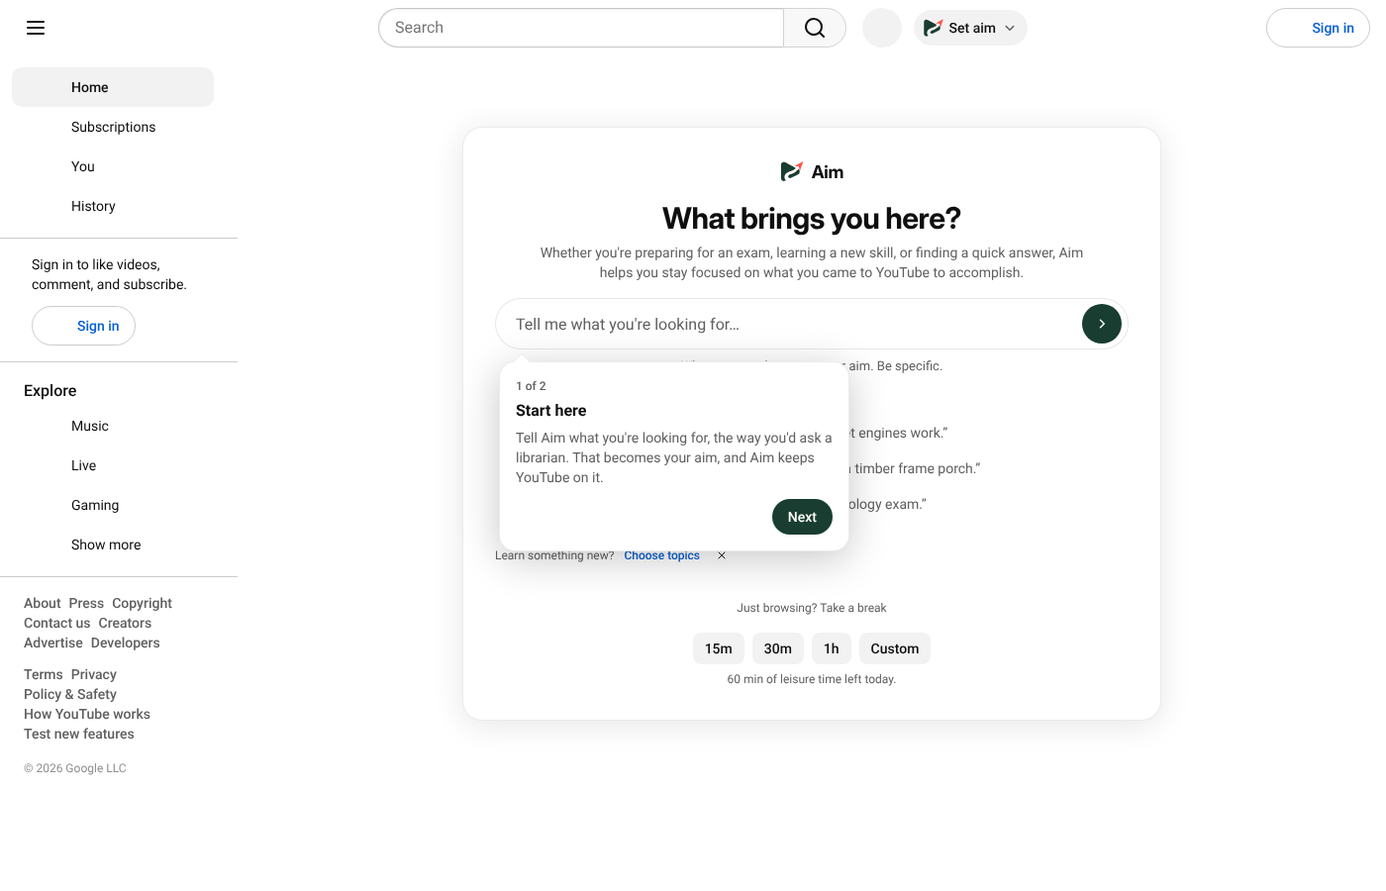
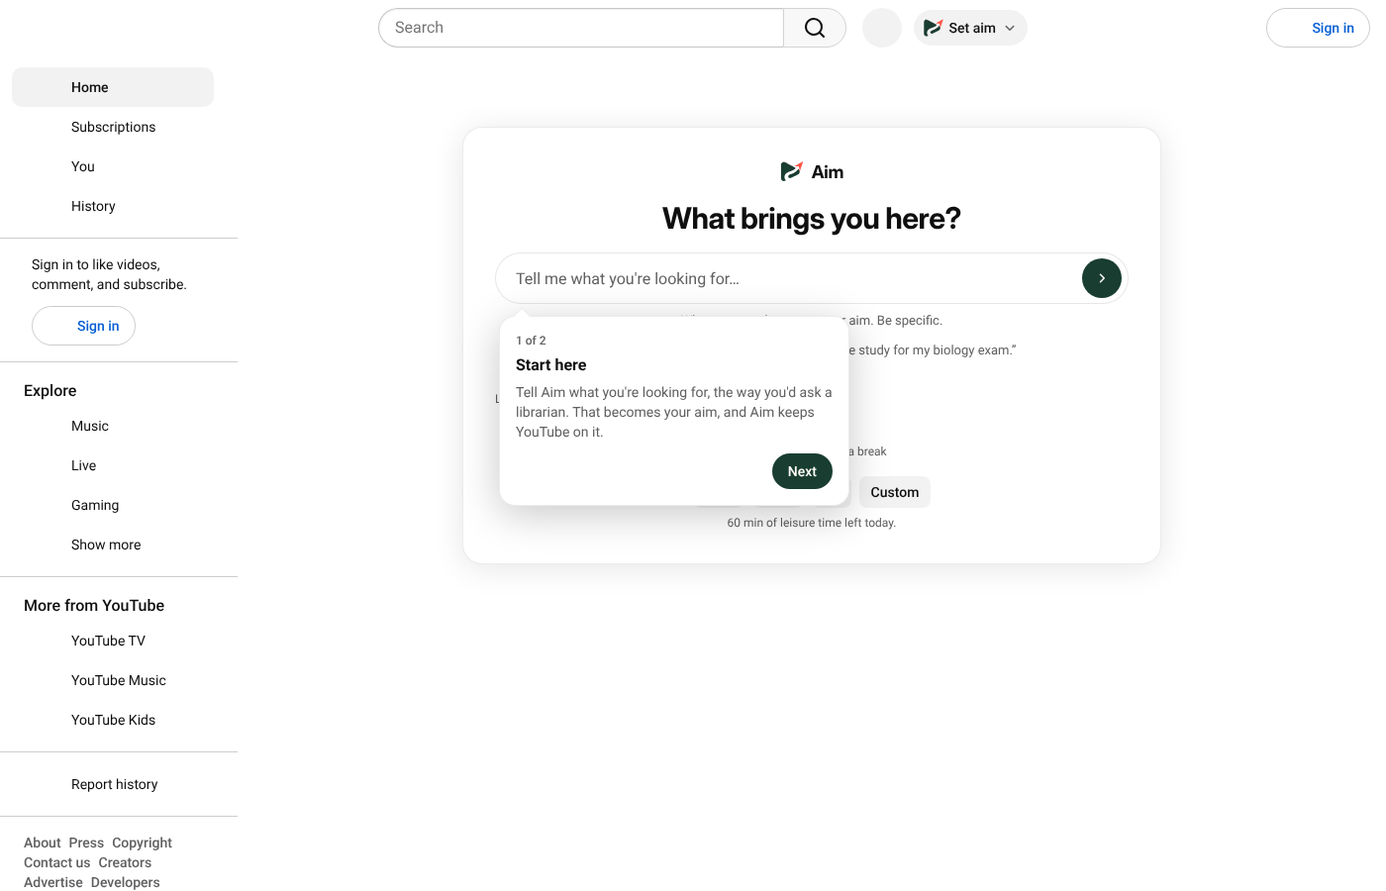
Polish: the end card sits inside the homepage card, a shorter homepage, one place for the design (0.49.1)
Claude-Session: https://claude.ai/code/session_01SjDZZ75Dr81gmM2iqGfBXN

diff --git a/tests/browser.test.js b/tests/browser.test.js
@@ -264,7 +264,8 @@ const RESULTS = page(`<ytd-search><div><ytd-section-list-renderer>
     !document.documentElement.classList.contains("wp-boot") && document.documentElement.classList.contains("wp-home")));
   step("homepage card offers a search, examples and a break", (await text("#wp-home")).includes("What brings you here?") &&
     (await p.getAttribute("#wp-home .wp-home-input", "placeholder")) === "Tell me what you're looking for…" && !card0.includes("Search YouTube") &&
-    ["jet engines", "timber frame porch", "15m", "Custom"].every(t => card0.includes(t)), card0.slice(0, 160));
+    ["jet engines", "biology exam", "15m", "Custom"].every(t => card0.includes(t)), card0.slice(0, 160));
+  if (process.env.SHOTS) await p.screenshot({ path: `${process.env.SHOTS}/home-first.png` });
   step("tapping an example fills the search box", await (async () => {
     await p.click('#wp-home .wp-home-example:has-text("biology exam")');
     return (await p.inputValue("#wp-home .wp-home-input")) === "Help me study for my biology exam.";
@@ -386,15 +387,20 @@ const RESULTS = page(`<ytd-search><div><ytd-section-list-renderer>
   await p.click("#wp-chip .wp-pill");
   await p.click('.wp-dropdown button:has-text("Done with this aim")');
   await p.waitForURL("https://www.youtube.com/", { timeout: 5000 });
-  await p.waitForSelector(".wp-notice .wp-end-rate", { timeout: 5000 });
-  const endText = await text(".wp-notice");
-  step("Done is one tap; a light card follows: time, found it?, and a way back in", !(await p.$(".wp-done-dialog")) &&
+  await p.waitForSelector("#wp-home .wp-home-end .wp-end-rate", { timeout: 5000 });
+  const endText = await text(".wp-home-end");
+  step("Done is one tap; a light card follows at the top of the homepage card: time, found it?, and a way back in", !(await p.$(".wp-done-dialog")) &&
     ["min on Learn how sourdough", "Found what you needed?", "Yes", "Partly", "Not done? Pick it back up"].every(t => endText.includes(t)), endText.slice(0, 160));
   if (process.env.SHOTS) { await p.waitForTimeout(600); await p.screenshot({ path: `${process.env.SHOTS}/after-done.png` }); }
-  await p.click('.wp-notice .wp-end-rate button:text-is("Yes")');
+  step("the card sits inside the homepage card, above the question, covering nothing", await p.evaluate(() => {
+    const end = document.querySelector(".wp-home-end").getBoundingClientRect(), h = document.querySelector(".wp-home-title").getBoundingClientRect();
+    return end.bottom <= h.top && !document.querySelector(".wp-notice");
+  }));
+  await p.click('.wp-home-end .wp-end-rate button:text-is("Yes")');
   await p.waitForTimeout(400);
-  step("answering is quiet: the card says thanks in place", (await text(".wp-notice")).includes("Nice work"));
-  await p.click('.wp-notice [aria-label="Dismiss"]');
+  step("answering is quiet: the card says thanks in place", (await text(".wp-home-end")).includes("Nice work"));
+  await p.click('.wp-home-end [aria-label="Dismiss"]');
+  step("dismissing it leaves the homepage card as usual", !(await p.$(".wp-home-end")) && !!(await p.$("#wp-home .wp-home-title")));
   await p.click("#wp-chip .wp-pill");
   await p.click('.wp-dropdown button:has-text("Set aim")');
   await p.waitForSelector(".wp-dialog .wp-recent", { timeout: 3000 });
@@ -552,7 +558,7 @@ const RESULTS = page(`<ytd-search><div><ytd-section-list-renderer>
   step("home: an aim with no videos yet keeps the text-only card; a recent aim shows its last video small",
     !(await p.$(".wp-home-current .wp-home-video")) && !!(await p.$(".wp-home-row .wp-home-row-thumb .wp-thumb-xs")) &&
     (await p.$eval(".wp-home-row .wp-thumb-xs", n => n.style.backgroundImage)).includes("i.ytimg.com/vi/bio1/"));
-  step("home: no example chips once there's something to pick up", !home.includes("Try asking") && home.includes("View all aims") && !/\bnull\b/.test(home));
+  step("home: no example chips once there's something to pick up", !(await p.$(".wp-home-examples")) && home.includes("View all aims") && !/\bnull\b/.test(home));
   await p.click(".wp-home-row button:text-is('Resume')");
   await p.waitForURL(/watch\?v=bio1/);
   step("Resume returns to the last video at the moment you left it", p.url().includes("watch?v=bio1&t=300s"), p.url());
@@ -857,13 +863,17 @@ const RESULTS = page(`<ytd-search><div><ytd-section-list-renderer>
   await opt.selectOption("#graceMin", "5");
   await opt.selectOption("#totalMin", "240");
   await opt.selectOption("#avoid select", "warn");
-  await opt.uncheck("#hideShorts");
-  await opt.check("#homeCard");
   await opt.waitForTimeout(600);
   st = await store();
   step("settings save through the background", st.settings.leisureMin === 90 && st.settings.graceMin === 5 && st.settings.totalMin === 240 &&
-    st.settings.homeCard === true && st.settings.hideShorts === false && st.avoid["/@hideme"].action === "warn", JSON.stringify(st.settings));
-  await p.waitForTimeout(300);
+    st.avoid["/@hideme"].action === "warn", JSON.stringify(st.settings));
+  const sum = (await opt.textContent("#designSummary")).replace(/\s+/g, " ");
+  step("settings show the design in words, each part linking to its stage, with no duplicate switches",
+    ["Home", "Shorts", "Watching", "Change"].every(t => sum.includes(t)) && (await opt.$$("#designSummary a[href^='design.html#']")).length === 3 &&
+    !(await opt.$("#hideShorts, #homeCard, #strict, #learnShorts")), sum.slice(0, 160));
+  if (process.env.SHOTS) await opt.screenshot({ path: `${process.env.SHOTS}/settings.png`, fullPage: true });
+  await sw.evaluate(() => serial(() => setSetting("hideShorts", false)));
+  await p.waitForTimeout(500);
   step("turning a distraction switch off applies to open tabs", !(await p.evaluate(() => document.documentElement.classList.contains("wp-hide-shorts"))));
 
   // Extension reload: the orphaned tab must go quiet instead of throwing.

diff --git a/options.html b/options.html
@@ -23,18 +23,14 @@
   <p class="lede">Set an aim. Stay on it. Take a break when you want one. <a href="#" id="welcomeTour">Show the welcome tour again</a></p>
 
   <section class="card" id="designCard">
-    <div class="setting" style="padding:0">
-      <div class="what"><b>Design your YouTube</b><span>Your homepage, Shorts, and what steps aside while you watch, with a live preview. Time limits are below.</span></div>
-      <a class="btn" href="design.html" id="openDesign">Design</a>
+    <div class="setting" style="padding:0 0 8px">
+      <div class="what"><b>Your YouTube</b><span>What greets you, what happens to Shorts, and what steps aside while you watch. Change any part with a live preview.</span></div>
+      <a class="btn tonal" href="design.html" id="openDesign">Design</a>
     </div>
-    <div class="row small" style="margin-top:8px">Jump to: <a href="design.html#home">Home</a> · <a href="design.html#shorts">Shorts</a> · <a href="design.html#watching">Watching</a></div>
+    <div id="designSummary"></div>
   </section>
 
   <section class="card">
-    <div class="setting">
-      <div class="what"><b>Replace the homepage feed</b><span>Show "What brings you here?" instead. The feed comes back during breaks.</span></div>
-      <label class="switch"><input type="checkbox" id="homeCard" aria-label="Replace the homepage feed"><i></i></label>
-    </div>
     <div class="setting">
       <div class="what"><b>Daily leisure time</b><span id="leisureNote">Breaks share this allowance. When it's used up, breaks are done for the day.</span></div>
       <select id="leisureMin" aria-label="Daily leisure time">
@@ -46,13 +42,8 @@
   </section>
 
   <section class="card" id="learn">
-    <h2>Learn something</h2>
-    <p class="muted">Pick topics you'd like to learn about. When you're not working on an aim, YouTube's home page shows six new videos from channels that teach them well, plus channels you marked Prefer. No feed and no autoplay; picking one starts an aim. The channels are hand-picked by Aim; take out any you don't want.</p>
-    <div class="seg" id="learnTopics" role="group" aria-label="Topics"></div>
-    <div class="setting">
-      <div class="what"><b>Shorts from your topics</b><span>Instead of hiding Shorts completely, show a few from these channels (and channels you prefer) as a Quick review of things you've already learned. Shorts from anywhere else stay hidden, including the ones YouTube swipes to next.</span></div>
-      <label class="switch"><input type="checkbox" id="learnShorts" aria-label="Shorts from your topics"><i></i></label>
-    </div>
+    <h2>Learn something channels</h2>
+    <p class="muted" id="learnNote"></p>
     <div id="learnChannels"></div>
   </section>
 
@@ -92,30 +83,6 @@
       <div class="setting"><div class="what"><span id="today"></span></div></div>
     </section>
 
-    <section class="sub">
-      <h2>Distractions</h2>
-      <p class="note">Hidden whenever you're not on a break. A break shows YouTube as usual.</p>
-      <div class="setting">
-        <div class="what"><b>Hide Shorts</b><span>Shelves, results and the Shorts link. Opening a Short while you have an aim asks first.</span></div>
-        <label class="switch"><input type="checkbox" id="hideShorts" aria-label="Hide Shorts"><i></i></label>
-      </div>
-      <div class="setting">
-        <div class="what"><b>Hide recommendations</b><span>The sidebar next to a video and the suggestions at its end.</span></div>
-        <label class="switch"><input type="checkbox" id="hideRecs" aria-label="Hide recommendations"><i></i></label>
-      </div>
-      <div class="setting">
-        <div class="what"><b>Hide subscriptions and trending feeds</b><span>Replaced by a short note, like the homepage.</span></div>
-        <label class="switch"><input type="checkbox" id="hideFeeds" aria-label="Hide feeds"><i></i></label>
-      </div>
-      <div class="setting">
-        <div class="what"><b>Turn autoplay off</b><span>Aim switches YouTube's autoplay off, and back on during breaks if it was on.</span></div>
-        <label class="switch"><input type="checkbox" id="noAutoplay" aria-label="Turn autoplay off"><i></i></label>
-      </div>
-      <div class="setting">
-        <div class="what"><b>Strict mode</b><span>Before you add time, watch a channel you asked to be warned about, or call an unrelated search part of your aim, Aim asks why. Your reasons stay in this browser; read them in the popup.</span></div>
-        <label class="switch"><input type="checkbox" id="strict" aria-label="Strict mode"><i></i></label>
-      </div>
-    </section>
 
     <section class="sub">
       <h2>Aim Homeschool preview</h2>

diff --git a/options.js b/options.js
@@ -20,18 +20,33 @@ async function setSetting(key, value) {
   render();
 }
 
-const TOGGLES = ["hideShorts", "hideRecs", "hideFeeds", "noAutoplay"];
+// The design, in words, one line per stage, each with a link straight to that stage. The switches
+// themselves live in Design your YouTube only, so there's one place to change them.
+function designSummary(S) {
+  const topics = (S.learnTopics || []).length;
+  const home = S.homeCard === false ? "YouTube's own feed"
+    : S.learnRow !== false && topics ? `A clean page, plus new videos from ${topics} topic${topics > 1 ? "s" : ""}` : "A clean page with your aim";
+  const shorts = S.hideShorts === false ? "Shown" : S.learnShorts ? "Only from selected channels" : "Hidden";
+  const watching = [S.hideRecs !== false ? "recommendations hidden" : "recommendations shown",
+    S.noAutoplay !== false ? "autoplay off" : "autoplay on", S.hideFeeds !== false ? "feeds hidden" : "feeds shown",
+    S.strict ? "strict" : "asks once"].join(" · ");
+  $("designSummary").replaceChildren(...[["Home", home, "home"], ["Shorts", shorts, "shorts"], ["Watching", watching[0].toUpperCase() + watching.slice(1), "watching"]].map(([label, value, stage]) => {
+    const row = document.createElement("div"), what = document.createElement("div"), b = document.createElement("b"), v = document.createElement("span"), a = document.createElement("a");
+    row.className = "setting"; what.className = "what";
+    b.textContent = label; v.textContent = value; what.append(b, v);
+    a.href = `design.html#${stage}`; a.textContent = "Change"; a.className = "small";
+    row.append(what, a);
+    return row;
+  }));
+}
 
 async function render() {
   const st = await send({ type: "state" });
   if (!st) return;
   const S = st.settings, t = st.today || { purpose: 0, leisure: 0, other: 0 };
-  $("homeCard").checked = S.homeCard;
+  designSummary(S);
   $("homeschoolPreview").checked = !!st.homeschool;
   $("homeschoolResetRow").hidden = !st.homeschool;
-  for (const k of TOGGLES) $(k).checked = S[k] !== false;
-  $("strict").checked = S.strict === true;
-  $("learnShorts").checked = S.learnShorts === true;
   renderLearn(S);
   for (const k of ["leisureMin", "graceMin", "totalMin", "purposeLimitMin"]) {
     const sel = $(k);
@@ -69,7 +84,6 @@ async function render() {
   }
 }
 
-$("homeCard").onchange = () => setSetting("homeCard", $("homeCard").checked);
 $("openChannels").onclick = () => chrome.tabs.create({ url: chrome.runtime.getURL("channels.html") });
 $("homeschoolPreview").onchange = async () => {
   const r = await send({ type: "homeschool-preview", on: $("homeschoolPreview").checked });
@@ -80,19 +94,14 @@ $("homeschoolReset").onclick = async () => {
   const r = await send({ type: "homeschool-preview", on: true });
   toast(r?.result === "applied" ? "Sample plan reset." : "Couldn't reset it.");
 };
-for (const k of TOGGLES) $(k).onchange = () => setSetting(k, $(k).checked);
-$("strict").onchange = () => setSetting("strict", $("strict").checked);
-$("learnShorts").onchange = () => setSetting("learnShorts", $("learnShorts").checked);
-// "Learn something": topics as toggles; under each chosen topic, its channels, which you can take out.
+// "Learn something": under each topic you chose (in Design your YouTube → Home), its channels,
+// which you can take out.
 function renderLearn(S) {
   const on = new Set(S.learnTopics || []), off = new Set(S.learnOff || []);
   const save = (key, value) => setSetting(key, value);
-  $("learnTopics").replaceChildren(...LEARN_TOPICS.map(t => {
-    const b = document.createElement("button");
-    b.type = "button"; b.textContent = t.name; b.setAttribute("aria-pressed", String(on.has(t.id)));
-    b.onclick = () => save("learnTopics", on.has(t.id) ? [...on].filter(x => x !== t.id) : [...on, t.id]);
-    return b;
-  }));
+  const pick = document.createElement("a");
+  pick.href = "design.html#home"; pick.textContent = on.size ? "Change your topics" : "Choose topics";
+  $("learnNote").replaceChildren(on.size ? "The channels behind your topics. Take out any you'd rather not see. " : "Pick topics, and Aim's homepage shows new videos from channels that teach them well. ", pick);
   const box = $("learnChannels");
   box.replaceChildren();
   for (const t of LEARN_TOPICS.filter(t => on.has(t.id))) {

diff --git a/content/session.js b/content/session.js
@@ -296,16 +296,23 @@ async function showReflection() {
   };
   rated.append(el("span", { class: "wp-muted" }, "Found what you needed?"),
     ...[["yes", "Yes"], ["partly", "Partly"], ["no", "No"]].map(([v, label]) => el("button", { class: "wp-link", onclick: rate(v) }, label)));
-  showNotice([
+  const close = () => { homeEnd?.remove(); homeEnd = null; closeNotice(); };
+  const parts = [
     el("span", { class: "wp-notice-icon wp-accent" }, icon("check")),
     el("div", { class: "wp-notice-text" },
-      el("div", { class: "wp-strong" }, `${mins} min on ${s.text}`),
-      el("div", { class: "wp-muted" }, s.videos?.length ? `${s.videos.length} video${s.videos.length > 1 ? "s" : ""} · Done` : "Done"),
+      el("div", { class: "wp-strong" }, `Done · ${mins} min on ${s.text}`),
+      s.videos?.length ? el("div", { class: "wp-muted" }, `${s.videos.length} video${s.videos.length > 1 ? "s" : ""}`) : null,
       rated,
       // With Pathways on, a learning aim asks once whether you'd like more of it.
       status.pathways && learning ? interestChips({ topic: s.study?.title || s.text, source: "target" }) : null),
     el("div", { class: "wp-notice-actions wp-col" },
-      plus ? el("button", { class: "wp-btn wp-btn-tonal", onclick: () => { closeNotice(); send({ type: "open-teachback", topic: s.text }); } }, "Test my understanding") : null,
-      el("button", { class: "wp-btn wp-btn-text", onclick: () => { closeNotice(); resumeTarget(s.id); } }, "Not done? Pick it back up"))
-  ]);
+      plus ? el("button", { class: "wp-btn wp-btn-tonal", onclick: () => { close(); send({ type: "open-teachback", topic: s.text }); } }, "Test my understanding") : null,
+      el("button", { class: "wp-link", onclick: () => { close(); resumeTarget(s.id); } }, "Not done? Pick it back up"))];
+  // On Aim's homepage it sits at the top of the card, so it never covers anything; elsewhere it's a notice.
+  if (location.pathname !== "/" || !settings.homeCard || brk || planOn()) return showNotice(parts);
+  homeEnd = el("div", { class: "wp-home-end", role: "status" }, ...parts,
+    el("button", { class: "wp-icon-btn", "aria-label": "Dismiss", onclick: close }, svgIcon("close")));
+  const card = $("#wp-home");
+  if (card) delete card.dataset.key;
+  renderHome();
 }

diff --git a/content/home.js b/content/home.js
@@ -2,7 +2,10 @@
 
 // ---------------- homepage: "What brings you here?" ----------------
 // Example requests on the card, said the way you'd ask a librarian: one tap fills the box.
-const EXAMPLES = ["I want to understand how jet engines work.", "Find a good tutorial for building a timber frame porch.", "Help me study for my biology exam."];
+const EXAMPLES = ["How do jet engines work?", "Help me study for my biology exam."];
+
+// The card after Done, shown inside the homepage card (so it never covers it) until dismissed.
+let homeEnd = null;
 
 function removeHome() {
   early.showFeed();
@@ -75,15 +78,15 @@ async function renderHome() {
 
   card.append(...[
     brandLine(),
+    homeEnd,
     el("h1", { class: "wp-home-title" }, "What brings you here?"),
-    p ? null : el("div", { class: "wp-muted wp-home-lede" }, `Whether you're preparing for an exam, learning a new skill, or finding a quick answer, ${BRAND} helps you stay focused on what you came to YouTube to accomplish.`),
     el("div", { class: "wp-home-search" }, input, findBtn),
     hint,
     themeOfferBlock(),
     // Examples help a first visit; once there's something to pick up, they'd only add clutter.
-    !p && !others.length && !(settings.learnTopics || []).length ? el("div", { class: "wp-label" }, "Try asking") : null,
-    !p && !others.length && !(settings.learnTopics || []).length ? el("div", { class: "wp-home-examples" }, ...EXAMPLES.map(t =>
-      el("button", { class: "wp-home-example", onclick: () => { input.value = t; input.focus(); } }, `“${t}”`))) : null,
+    !p && !others.length && !(settings.learnTopics || []).length ? el("div", { class: "wp-home-examples" },
+      el("span", { class: "wp-muted" }, "Try"), ...EXAMPLES.map(t =>
+        el("button", { class: "wp-home-example", onclick: () => { input.value = t; input.focus(); } }, `“${t}”`))) : null,
     resumeBlock,
     savedBlock(),
     learnBlock(),

diff --git a/content/content.css b/content/content.css
@@ -303,9 +303,9 @@ html.wp-boot ytd-browse[page-subtype="home"] ytd-feed-filter-chip-bar-renderer {
 .wp .wp-home-go, .wp-home-search:focus-within .wp-home-go { background: var(--wp-primary); color: var(--wp-on-primary); }
 .wp .wp-home-go:hover { background: var(--wp-primary-hover); }
 .wp-home-go:disabled { opacity: .6; cursor: progress; }
-.wp-home-examples { display: flex; flex-direction: column; align-items: center; gap: 4px; margin-top: -8px; }
-.wp .wp-home-example { border: 0; background: none; color: var(--wp-muted); font: 400 14px/20px "Roboto", Arial, sans-serif;
-  padding: 6px 12px; border-radius: 16px; }
+.wp-home-examples { display: flex; flex-wrap: wrap; justify-content: center; align-items: center; gap: 2px 4px; margin-top: -8px; font-size: 13px; }
+.wp .wp-home-example { border: 0; background: none; color: var(--wp-muted); font: 400 13px/18px "Roboto", Arial, sans-serif;
+  padding: 4px 8px; border-radius: 14px; }
 .wp .wp-home-example:hover { background: var(--wp-tonal); color: var(--wp-text); }
 .wp-home-hint { margin: -8px 0 0 16px; font-size: 13px; }
 .wp-home-lede { margin: -8px 0 0; font-size: 14px; line-height: 20px; max-width: 560px; }
@@ -725,3 +725,8 @@ html[dark] .wp-coach { background: var(--wp-menu); }
 .wp-more[open] > summary { margin-bottom: 10px; }
 .wp-more > :not(summary) + :not(summary) { margin-top: 10px; }
 .wp-end-rate { display: flex; align-items: center; gap: 10px; flex-wrap: wrap; margin-top: 4px; }
+
+/* The card after Done, at the top of the homepage card. */
+.wp-home-end { display: flex; align-items: flex-start; gap: 12px; padding: 12px 14px; border-radius: 12px; background: var(--wp-tonal); text-align: left; }
+.wp-home-end .wp-notice-text { flex: 1; }
+.wp-home-end .wp-notice-actions.wp-col { align-items: flex-end; }

diff --git a/content/learn.js b/content/learn.js
@@ -159,14 +159,14 @@ function learnBlock() {
     // One quiet line, not a block: the offer is there for whoever wants it.
     return el("div", { class: "wp-learn wp-learn-invite" },
       el("span", { class: "wp-muted" }, "Learn something new?"),
-      el("button", { class: "wp-link", onclick: () => send({ type: "open-options", section: "learn" }) }, "Choose topics"),
+      el("button", { class: "wp-link", onclick: () => send({ type: "open-design", stage: "home" }) }, "Choose topics"),
       el("button", { class: "wp-icon-btn wp-learn-invite-x", "aria-label": "No thanks", title: "No thanks",
         onclick: e => { send({ type: "onboarding", tip: "learn" }); e.currentTarget.closest(".wp-learn").remove(); } }, svgIcon("close")));
   }
   const box = el("div", { class: "wp-learn" },
     el("div", { class: "wp-row-between" },
       el("div", { class: "wp-label" }, "Learn something"),
-      el("button", { class: "wp-link wp-learn-edit", onclick: () => send({ type: "open-options", section: "learn" }) }, "Your topics")),
+      el("button", { class: "wp-link wp-learn-edit", onclick: () => send({ type: "open-design", stage: "home" }) }, "Your topics")),
     el("div", { class: "wp-muted wp-learn-loading" }, "Finding new videos from your topics…"));
   loadLearn().then(({ videos, shorts }) => {
     if (!box.isConnected) return;

diff --git a/TESTING.md b/TESTING.md
@@ -116,7 +116,7 @@ From a cloud session, the environment must allow `*.youtube.com`, `*.ytimg.com`,
 ### 8. Done with this aim
 
 - [ ] Menu → **Done with this aim** (or the results bar, homepage, time-up card or popup) ends it in one tap and lands on the homepage.
-- [ ] A light card follows: "N min on …", the videos, a quiet **Found what you needed? Yes · Partly · No** (answering says thanks in place), **Test my understanding** (Plus, learning aims) and **Not done? Pick it back up**.
+- [ ] A light card follows at the top of the homepage card (a notice elsewhere, so it never covers anything): "Done · N min on …", the videos, a quiet **Found what you needed? Yes · Partly · No** (answering says thanks in place), **Test my understanding** (Plus, learning aims) and **Not done? Pick it back up**.
 - [ ] Homepage with no aims: "What brings you here?", one rounded field ("Tell me what you're looking for…") with a small arrow inside, three example requests, and no big Search YouTube button. Enter and the arrow both work.
 - [ ] Popup with an aim: Resume (red), Take a Break, Done, then small Change my aim · Set aside · All aims links. It shows "N min so far" (time left only with a limit). **Resume** on a YouTube tab goes to the last video at the moment you left; on another site it opens a new tab instead. "Your activity" is folded.
 - [ ] Results after a plain search, signed in: the librarian is folded behind the speech-bubble icon; clicking it opens the ask box. After a request it opens by itself.
@@ -297,7 +297,7 @@ From a cloud session, the environment must allow `*.youtube.com`, `*.ytimg.com`,
 - [ ] **Study sessions** and **Completed** filter the list; **Print or save as PDF** prints just the record (no buttons).
 
 ### 30. Learn something (0.42)
-- [ ] With no topics chosen and no aim, YouTube's home page has one quiet line, **Learn something new? Choose topics** (Settings → Learn something); its × hides it for good.
+- [ ] With no topics chosen and no aim, YouTube's home page has one quiet line, **Learn something new? Choose topics** (opens Design your YouTube → Home); its × hides it for good.
 - [ ] Pick Math and Engineering: the home page shows **Learn something**, six new videos (three by two) from those channels, newest first, at most two per channel, no Shorts, each labeled with its channel and topic. The first visit takes a few seconds while feeds load; after that it's instant for a day.
 - [ ] **Check every curated channel loads** (Settings lists them, each linked): a channel that never shows up has a wrong handle in content/topics.js.
 - [ ] Clicking one starts the aim "Exploring: <title>"; the watch page's sidebar says **More from your topics** with the rest of the row.
@@ -364,3 +364,8 @@ From a cloud session, the environment must allow `*.youtube.com`, `*.ytimg.com`,
 ### 37. Aims, and fewer interruptions (0.49)
 - [ ] Nowhere in the extension says "Target": it's **your aim** (Set aim, Back to my aim, Change my aim, Your aims, Done with this aim).
 - [ ] Each moment in docs/INTERRUPTIONS.md behaves as its "Now" column says: one-tap Done with the light card after, "Part of your aim?" asked less often and with a Yes, quiet lines for Still looking? and Learn something new?, two first-time tips, a three-screen welcome.
+
+### 38. Polish (0.49.1)
+- [ ] The homepage card is short: the question, the box, one hint, and on a first visit one line of two examples ("Try …"). No paragraph under the title.
+- [ ] Settings → **Your YouTube** describes the current design in three lines (Home, Shorts, Watching), each with **Change** opening that stage. There are no separate switches for Shorts, recommendations, feeds, autoplay, strict mode or topics anywhere else in Settings.
+- [ ] Settings → **Learn something channels** lists the channels behind your topics, with Take out / Put back; with no topics, it links to Choose topics.
